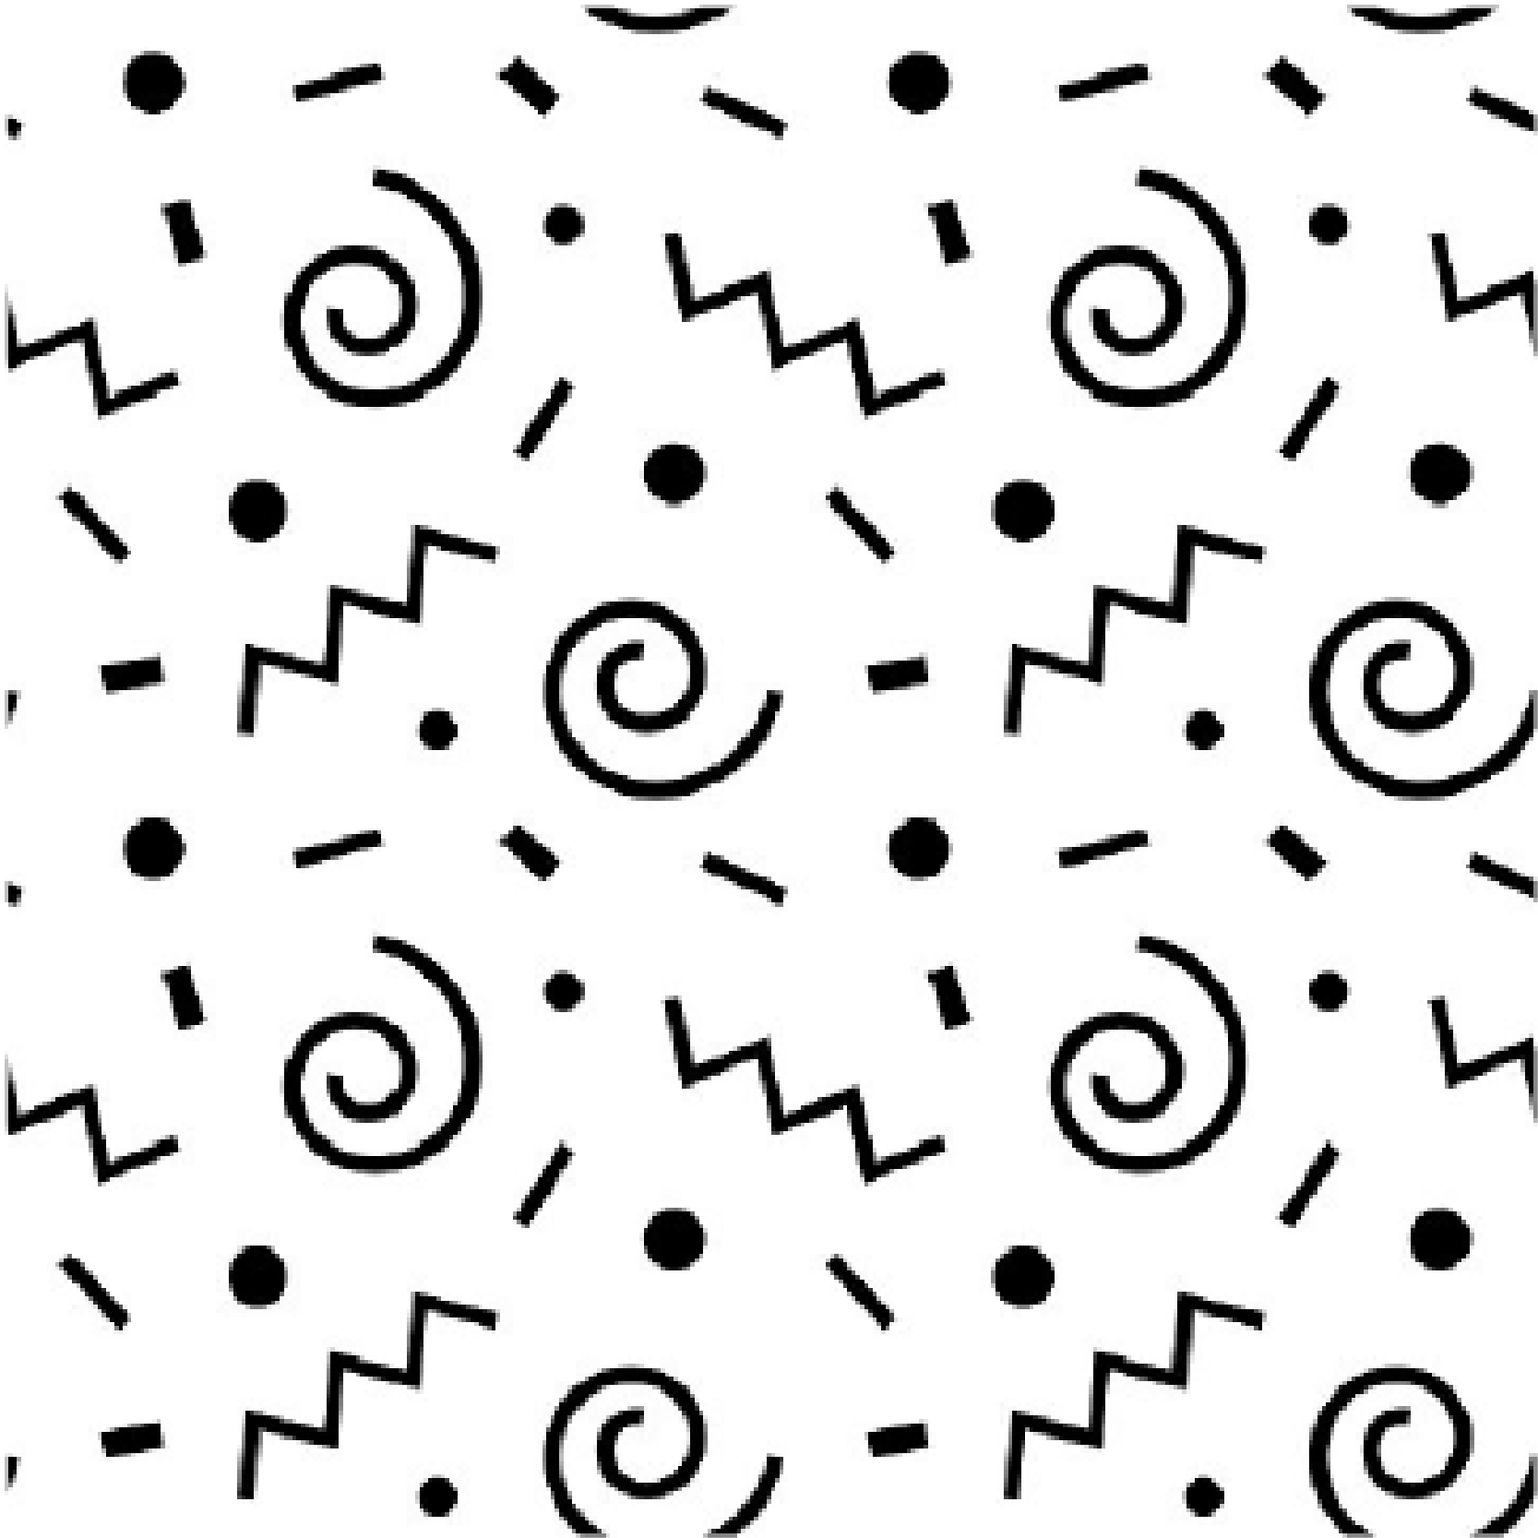
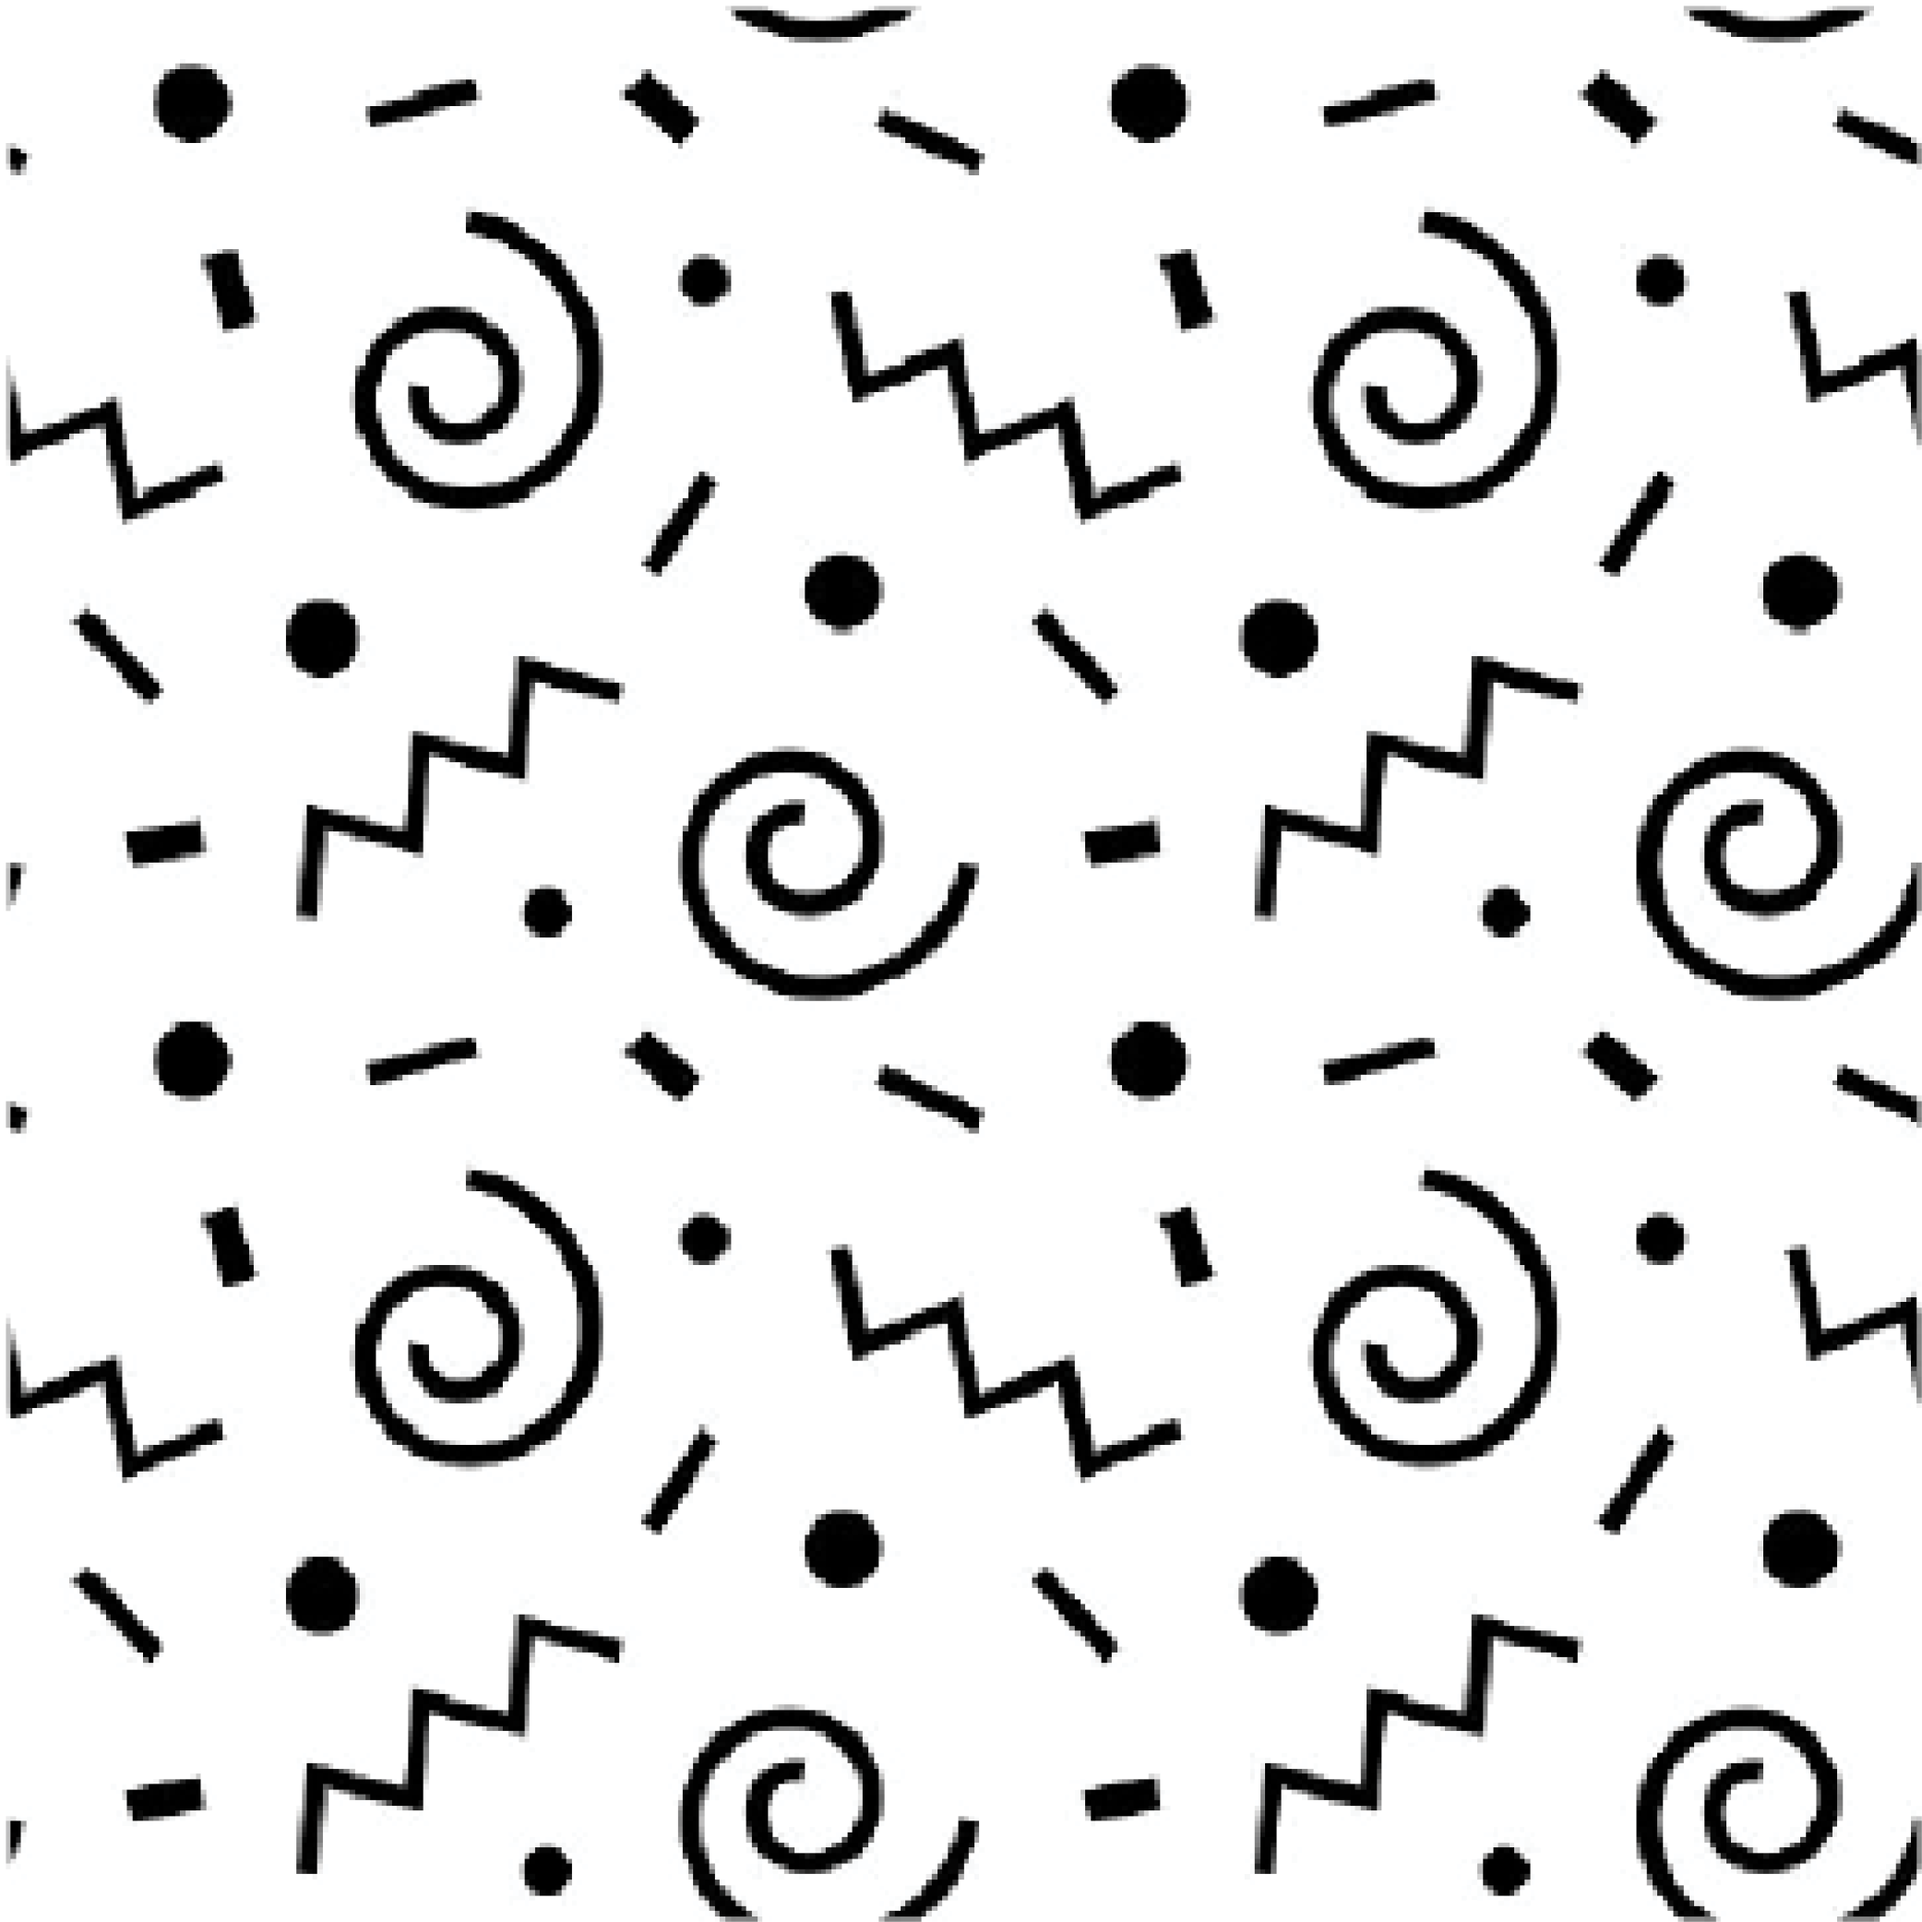
added flexbox and reformatted images

diff --git a/css/main.css b/css/main.css
@@ -198,30 +198,14 @@ ul{
 	margin :auto;
 	width: 100%;
 }
-li.a, li.b, li.c{
-	width: 100%;
-}
+
 .details {
     float: left;
     width: 100%;
 }
 
-.details li.a {
-    margin-right: 1%;
-}
-
-.details li.b {
-    margin-left: 1%;
-}
-
-.details li.c {
-    width: 100%;
-    padding: 2em 0;
-		max-height: 200px;
-}
-
-.details li.a, .details li.b {
-    width: 48%;
+.details li.a, .details li.b, details li.c {
+    width: 10%;
     padding-bottom: 40%;
 		vertical-align: middle;
 }
@@ -229,14 +213,13 @@ li.a, li.b, li.c{
 .details li {
     list-style-type: none;
     float: left;
-    overflow: hidden;
-    margin: 0 0 2% 0;
     position: relative;
+		vertical-align: middle;
 }
 
 .details li.a img {
     position: absolute;
-    max-width: 300px;
+    max-width: 600px;
 		vertical-align: middle;
 		width: 100%;
 		margin: auto;
@@ -245,7 +228,15 @@ li.a, li.b, li.c{
 
 .details li.b img {
     position: absolute;
-    max-width: 300px;
+    max-width: 600px;
+		vertical-align: middle;
+		width: 100%;
+		margin: auto;
+}
+
+.details li.c img {
+    position: absolute;
+    max-width: 600px;
 		vertical-align: middle;
 		width: 100%;
 		margin: auto;
@@ -254,4 +245,33 @@ li.a, li.b, li.c{
 img {
     -ms-interpolation-mode: bicubic;
     vertical-align: middle;
+}
+
+/* FLEXBOX GALLERY */
+
+.images {
+  padding: .5vw;
+  font-size: 0;
+  display: -ms-flexbox;
+  -ms-flex-wrap: wrap;
+  -ms-flex-direction: column;
+  -webkit-flex-flow: row wrap;
+  flex-flow: row wrap;
+  display: -webkit-box;
+  display: flex;
+}
+.images div {
+  -webkit-box-flex: auto;
+  -ms-flex: auto;
+  flex: auto;
+  width: 200px;
+  margin: .5vw;
+}
+.images div img {
+  width: 100%;
+  height: auto;
+}
+@media screen and (max-width: 300px) {
+  header div { margin: 0; }
+  header { padding: 0; }
 }

diff --git a/index.html b/index.html
@@ -59,21 +59,17 @@
 					</ul>
 				</section>
 
-				<section class="details">
-					<ul>
-						<li class="a">
-							<img src="images/80spattern.png" alt="Pattern" title="Pattern">
-						</li>
 
-						<li class="b">
-							<img src="images/restaurant.png" alt="Restaurant" title="Restaurant">
-						</li>
 
-						<li class="c">
-							<img src="images/checkers.png" alt="Checkers" title="Checkers">
-						</li>
-					</ul>
-				</section>
+			<div class="details">
+<div><img src="images/80spattern.png" alt="Pattern" title="Pattern"></div>
+<div><img src="images/restaurant.png" alt="Restaurant" title="Restaurant"></div>
+<div><img src="images/checkers.png" alt="Checkers" title="Checkers"></div>
+
+			</div>
+
+
+
 
 		</main>
 
